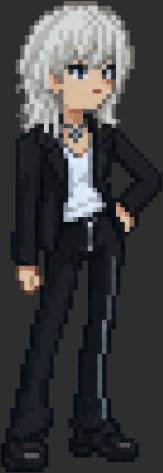
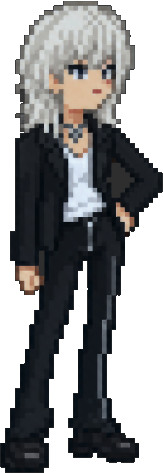
Polish GS cutscene visuals

diff --git a/main.js b/main.js
@@ -101,7 +101,7 @@
   k.loadSprite("closing_1", "docs/assets/Splash/Closing_1.png");
   k.loadSprite("closing_2", "docs/assets/Splash/Closing_2.png");
   k.loadSprite("closing_3", "docs/assets/Splash/Closing_3.png");
-  k.loadSprite("phoenix_street", "docs/assets/standing.png");
+  k.loadSprite("phoenix_street", "docs/assets/Character/phoenix_street.png");
   k.loadSprite("phoenix_idle", "docs/assets/Character/phoenix_idle.png");
   k.loadSprite("phoenix_idle_blink", "docs/assets/Character/phoenix_idle_blink.png");
   k.loadSprite("phoenix_idle_talk", "docs/assets/Character/phoenix_idle_talk.png");
@@ -239,7 +239,7 @@
     if (screen.type === "image") {
       addBackground(screen.sprite, 1);
       if (screen.character) {
-        k.add([k.sprite(screen.character), k.pos(375, 269), k.scale(0.061), k.z(2), "street_phoenix"]);
+        k.add([k.sprite(screen.character), k.pos(375, 269), k.scale(0.5), k.z(2), "street_phoenix"]);
       }
       return;
     }
@@ -264,7 +264,7 @@
       addBackground(screen.sprite, 1);
       addBackground(screen.vignette, 2);
       if (screen.character) {
-        k.add([k.sprite(screen.character), k.pos(375, 269), k.scale(0.061), k.z(3), "street_phoenix"]);
+        k.add([k.sprite(screen.character), k.pos(375, 269), k.scale(0.5), k.z(3), "street_phoenix"]);
       }
       return;
     }

diff --git a/style.css b/style.css
@@ -178,9 +178,9 @@ input {
 #street-dialog-panel {
   width: 100%;
   max-width: 1767px;
-  min-height: min(411px, 23.2vw);
+  aspect-ratio: 1772 / 411;
   margin: 0 auto;
-  padding: 52px 48px 32px;
+  padding: 79px 48px 32px;
   background: url("docs/assets/UI/dialog_box.png") no-repeat top left / 100% 100%;
   color: #e8e0d0;
   font-family: "VT323", monospace;
@@ -214,7 +214,6 @@ input {
   }
 
   #street-dialog-panel {
-    min-height: 132px;
     padding: 36px 24px 20px;
   }
 }
